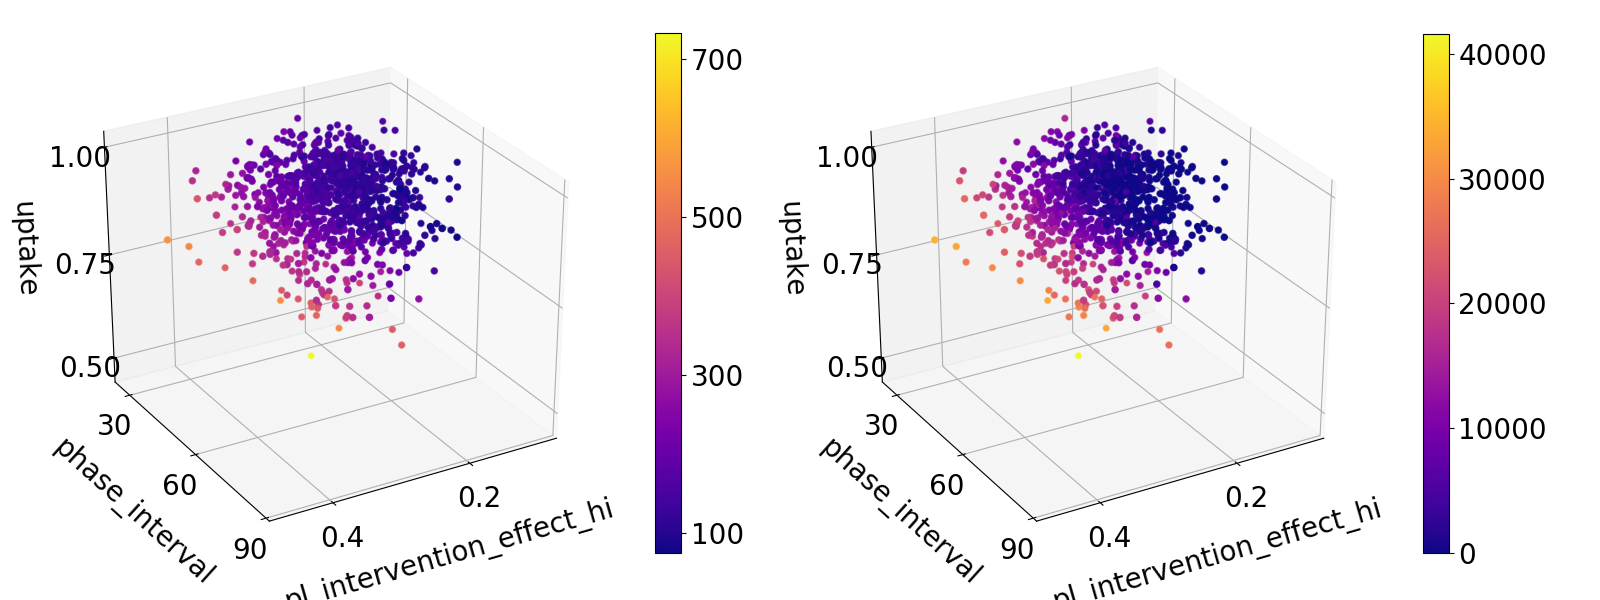
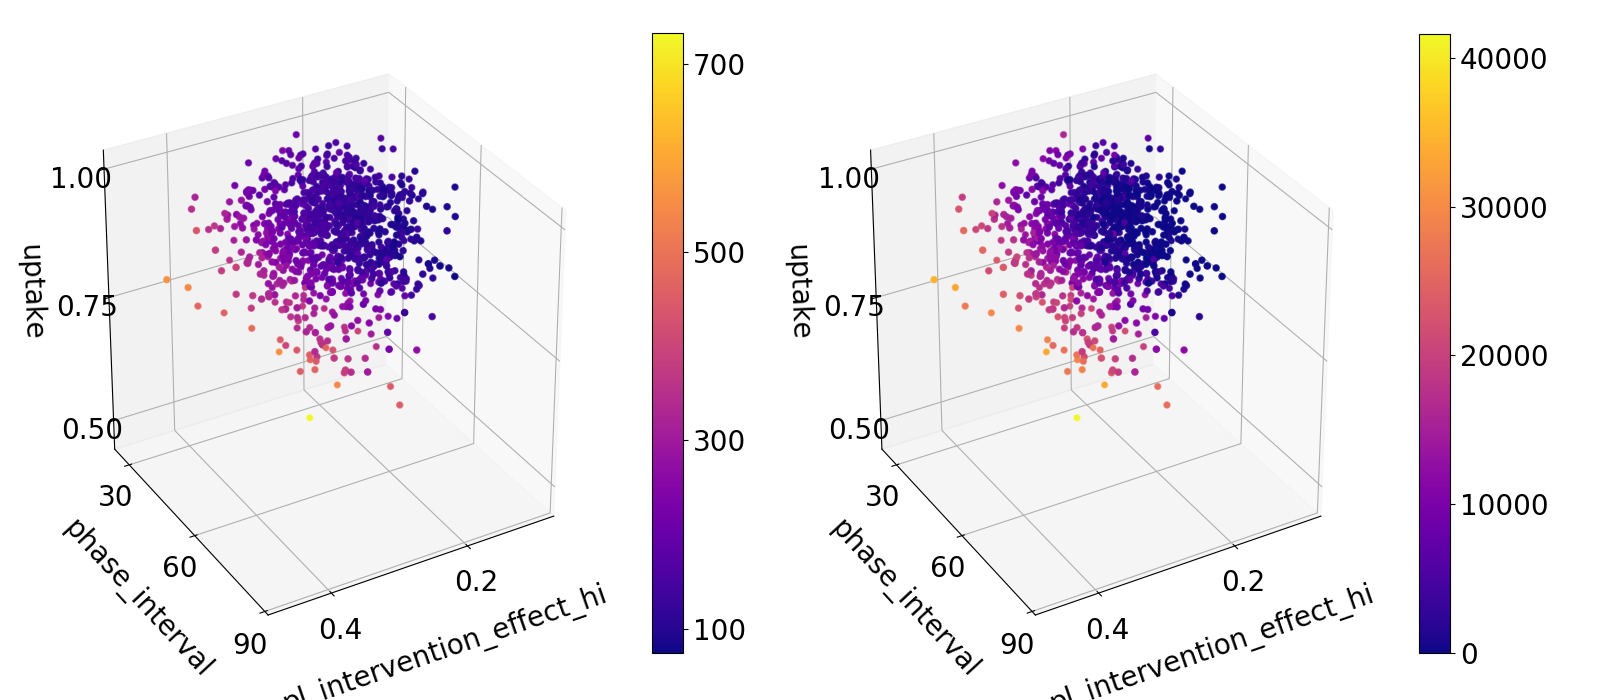
increase figsize of 3d plot

diff --git a/EasyVVUQ/heatmap_PO.py b/EasyVVUQ/heatmap_PO.py
@@ -194,7 +194,7 @@ f.savefig('figures/heatmap_PO_IC_ex.png')
 * 3D plots *
 """
 
-f = plt.figure('heatmap',figsize=[16,6])
+f = plt.figure('heatmap',figsize=[16,7])
 ax_p = f.add_subplot(121, xlabel='pl_intervention_effect_hi', ylabel='phase_interval', zlabel='uptake', projection='3d')
 im_p = ax_p.scatter(xs=pl_intervention_effect_hi, ys=phase_interval, zs=uptake, c=IC_prev_avg_max, cmap='plasma')
 
